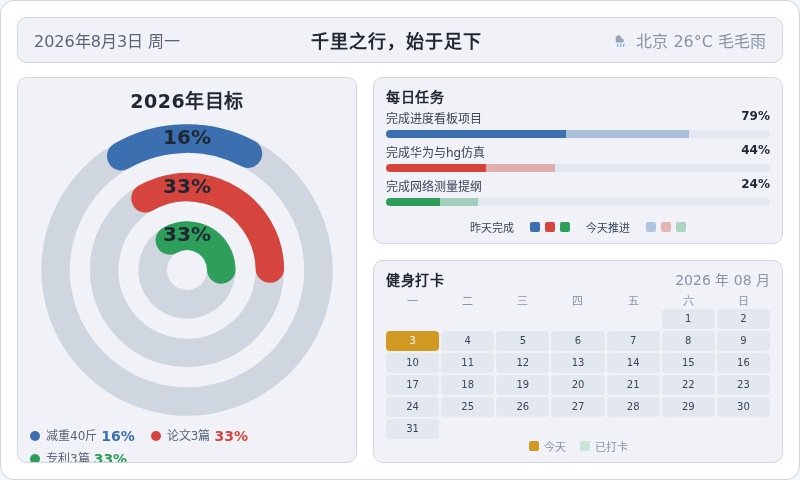
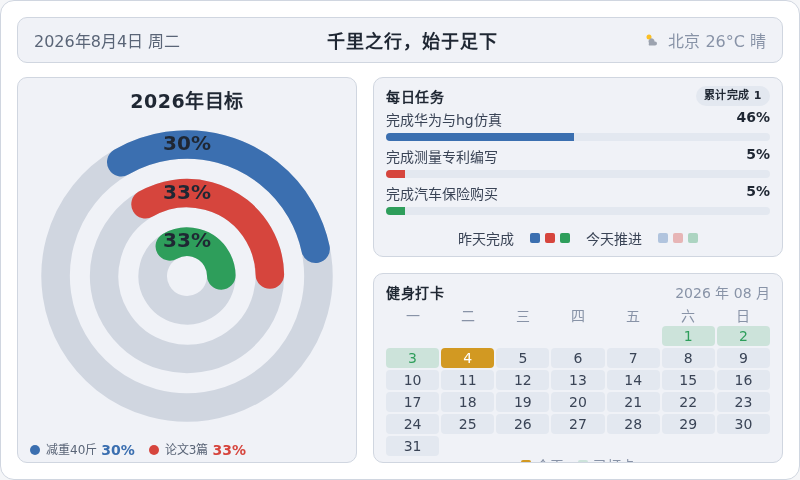
chore: 每日看板刷新 2026-08-04

diff --git a/output/dashboard.html b/output/dashboard.html
@@ -171,11 +171,11 @@
 <body>
   <div class="dash">
     <div class="topbar">
-      <div class="tb-date" id="tbDate">2026年8月3日 周一</div>
+      <div class="tb-date" id="tbDate">2026年8月4日 周二</div>
       <div class="tb-slogan">千里之行，始于足下</div>
       <div class="tb-weather">
-        <svg width="16" height="16" viewBox="0 0 16 16" aria-hidden="true"><path d="M4 8 a3 3 0 1 1 5.5 -1.5 h0.5 a2 2 0 1 1 0 4 H4 a2.5 2.5 0 0 1 0 -2.5z" fill="#9ca3af"/><g stroke="#60a5fa" stroke-width="1.2" stroke-linecap="round"><line x1="6" y1="12" x2="5.5" y2="14.5"/><line x1="9" y1="12" x2="8.5" y2="14.5"/><line x1="12" y1="12" x2="11.5" y2="14.5"/></g></svg>
-        <span>北京 28°C 毛毛雨</span>
+        <svg width="16" height="16" viewBox="0 0 16 16" aria-hidden="true"><circle cx="5" cy="5" r="2.5" fill="#fbbf24"/><path d="M5 11 a3 3 0 1 1 5.5 -1.5 h0.5 a2 2 0 1 1 0 4 H5 a2.5 2.5 0 0 1 0 -2.5z" fill="#9ca3af"/></svg>
+        <span>北京 26°C 晴</span>
       </div>
     </div>
     <div class="content">
@@ -229,7 +229,7 @@
           <span class="cal-date">2026 年 08 月</span>
         </div>
         <div class="cal-grid wk"><span>一</span><span>二</span><span>三</span><span>四</span><span>五</span><span>六</span><span>日</span></div>
-        <div class="cal-grid"><span class="cell empty"></span><span class="cell empty"></span><span class="cell empty"></span><span class="cell empty"></span><span class="cell empty"></span><span class="cell done" style="background:rgba(46,158,91,0.18);color:#2e9e5b">1</span><span class="cell done" style="background:rgba(46,158,91,0.18);color:#2e9e5b">2</span><span class="cell today" style="background:#d29922;color:#ffffff">3</span><span class="cell" style="background:#e3e8f0;color:#3a4456">4</span><span class="cell" style="background:#e3e8f0;color:#3a4456">5</span><span class="cell" style="background:#e3e8f0;color:#3a4456">6</span><span class="cell" style="background:#e3e8f0;color:#3a4456">7</span><span class="cell" style="background:#e3e8f0;color:#3a4456">8</span><span class="cell" style="background:#e3e8f0;color:#3a4456">9</span><span class="cell" style="background:#e3e8f0;color:#3a4456">10</span><span class="cell" style="background:#e3e8f0;color:#3a4456">11</span><span class="cell" style="background:#e3e8f0;color:#3a4456">12</span><span class="cell" style="background:#e3e8f0;color:#3a4456">13</span><span class="cell" style="background:#e3e8f0;color:#3a4456">14</span><span class="cell" style="background:#e3e8f0;color:#3a4456">15</span><span class="cell" style="background:#e3e8f0;color:#3a4456">16</span><span class="cell" style="background:#e3e8f0;color:#3a4456">17</span><span class="cell" style="background:#e3e8f0;color:#3a4456">18</span><span class="cell" style="background:#e3e8f0;color:#3a4456">19</span><span class="cell" style="background:#e3e8f0;color:#3a4456">20</span><span class="cell" style="background:#e3e8f0;color:#3a4456">21</span><span class="cell" style="background:#e3e8f0;color:#3a4456">22</span><span class="cell" style="background:#e3e8f0;color:#3a4456">23</span><span class="cell" style="background:#e3e8f0;color:#3a4456">24</span><span class="cell" style="background:#e3e8f0;color:#3a4456">25</span><span class="cell" style="background:#e3e8f0;color:#3a4456">26</span><span class="cell" style="background:#e3e8f0;color:#3a4456">27</span><span class="cell" style="background:#e3e8f0;color:#3a4456">28</span><span class="cell" style="background:#e3e8f0;color:#3a4456">29</span><span class="cell" style="background:#e3e8f0;color:#3a4456">30</span><span class="cell" style="background:#e3e8f0;color:#3a4456">31</span></div>
+        <div class="cal-grid"><span class="cell empty"></span><span class="cell empty"></span><span class="cell empty"></span><span class="cell empty"></span><span class="cell empty"></span><span class="cell done" style="background:rgba(46,158,91,0.18);color:#2e9e5b">1</span><span class="cell done" style="background:rgba(46,158,91,0.18);color:#2e9e5b">2</span><span class="cell done" style="background:rgba(46,158,91,0.18);color:#2e9e5b">3</span><span class="cell today" style="background:#d29922;color:#ffffff">4</span><span class="cell" style="background:#e3e8f0;color:#3a4456">5</span><span class="cell" style="background:#e3e8f0;color:#3a4456">6</span><span class="cell" style="background:#e3e8f0;color:#3a4456">7</span><span class="cell" style="background:#e3e8f0;color:#3a4456">8</span><span class="cell" style="background:#e3e8f0;color:#3a4456">9</span><span class="cell" style="background:#e3e8f0;color:#3a4456">10</span><span class="cell" style="background:#e3e8f0;color:#3a4456">11</span><span class="cell" style="background:#e3e8f0;color:#3a4456">12</span><span class="cell" style="background:#e3e8f0;color:#3a4456">13</span><span class="cell" style="background:#e3e8f0;color:#3a4456">14</span><span class="cell" style="background:#e3e8f0;color:#3a4456">15</span><span class="cell" style="background:#e3e8f0;color:#3a4456">16</span><span class="cell" style="background:#e3e8f0;color:#3a4456">17</span><span class="cell" style="background:#e3e8f0;color:#3a4456">18</span><span class="cell" style="background:#e3e8f0;color:#3a4456">19</span><span class="cell" style="background:#e3e8f0;color:#3a4456">20</span><span class="cell" style="background:#e3e8f0;color:#3a4456">21</span><span class="cell" style="background:#e3e8f0;color:#3a4456">22</span><span class="cell" style="background:#e3e8f0;color:#3a4456">23</span><span class="cell" style="background:#e3e8f0;color:#3a4456">24</span><span class="cell" style="background:#e3e8f0;color:#3a4456">25</span><span class="cell" style="background:#e3e8f0;color:#3a4456">26</span><span class="cell" style="background:#e3e8f0;color:#3a4456">27</span><span class="cell" style="background:#e3e8f0;color:#3a4456">28</span><span class="cell" style="background:#e3e8f0;color:#3a4456">29</span><span class="cell" style="background:#e3e8f0;color:#3a4456">30</span><span class="cell" style="background:#e3e8f0;color:#3a4456">31</span></div>
         <div class="cal-legend">
           <span style="color:#8893a7"><i class="sw" style="background:#d29922"></i>今天</span>
           <span style="color:#8893a7"><i class="sw" style="background:rgba(46,158,91,0.18)"></i>已打卡</span>

diff --git a/generate_dashboard.py b/generate_dashboard.py
@@ -366,9 +366,9 @@ def get_tasks_info(target_date):
     completed_count = 0
     for r in rows:
         try:
-            if int(float(r.get("today progress", "0"))) == 100:
+            if int(float(r.get("today progress") or 0)) == 100:
                 completed_count += 1
-        except ValueError:
+        except (ValueError, TypeError):
             pass
     if not rows:
         return {"tasks": [], "completed_count": 0}
@@ -379,17 +379,17 @@ def get_tasks_info(target_date):
         d = _norm_date(r.get("date"))
         if no not in task_map or d > task_map[no][1]:
             try:
-                yp = int(float(r.get("yesterday progress", "0")))
-            except ValueError:
+                yp = int(float(r.get("yesterday progress") or 0))
+            except (ValueError, TypeError):
                 yp = 0
             try:
-                tp = int(float(r.get("today progress", "0")))
-            except ValueError:
+                tp = int(float(r.get("today progress") or 0))
+            except (ValueError, TypeError):
                 tp = 0
             task_map[no] = (r, d, yp, tp)
     tasks = []
     for r, _, yp, tp in task_map.values():
-        if r.get("finished", "").strip().lower() == "yes":
+        if (r.get("finished") or "").strip().lower() == "yes":
             continue
         tasks.append({"name": r.get("task_name", ""), "progress": tp,
                       "yesterday_progress": yp, "today_progress": tp,
